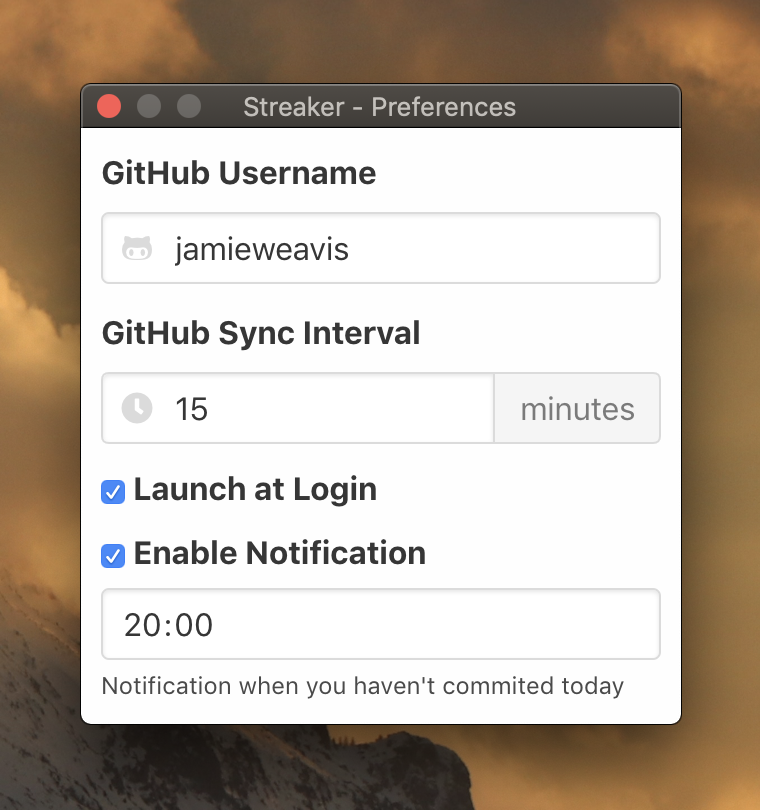
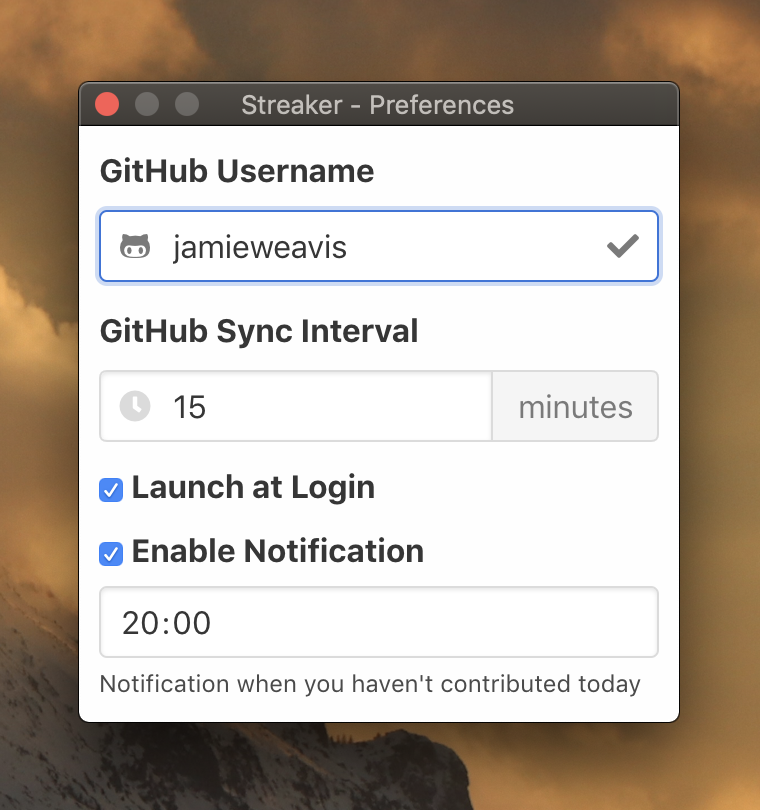
Use correct terminology for contributions

Changed region(s): [[0.0908, 0.0926, 0.9079, 0.9259], [0.6053, 0.9568, 0.6355, 1.0]]

diff --git a/src/preferences/preferences.html b/src/preferences/preferences.html
@@ -67,7 +67,7 @@
         <div class="control">
           <input id="notification-time" type="time" class="input" />
         </div>
-        <p class="help">Notification when you haven't commited today</p>
+        <p class="help">Notification when you haven't contributed today</p>
       </div>
     </main>
     <script src="./preferences.js"></script>

diff --git a/README.md b/README.md
@@ -16,7 +16,7 @@ Download the latest version of Streaker from the **[GitHub releases](https://git
 
 - Current streak, best streak, total contribution & best day stats
 - Launch at login
-- Notification when you haven't commited today
+- Notification when you haven't contributed today
 
 ## Screenshots
 
